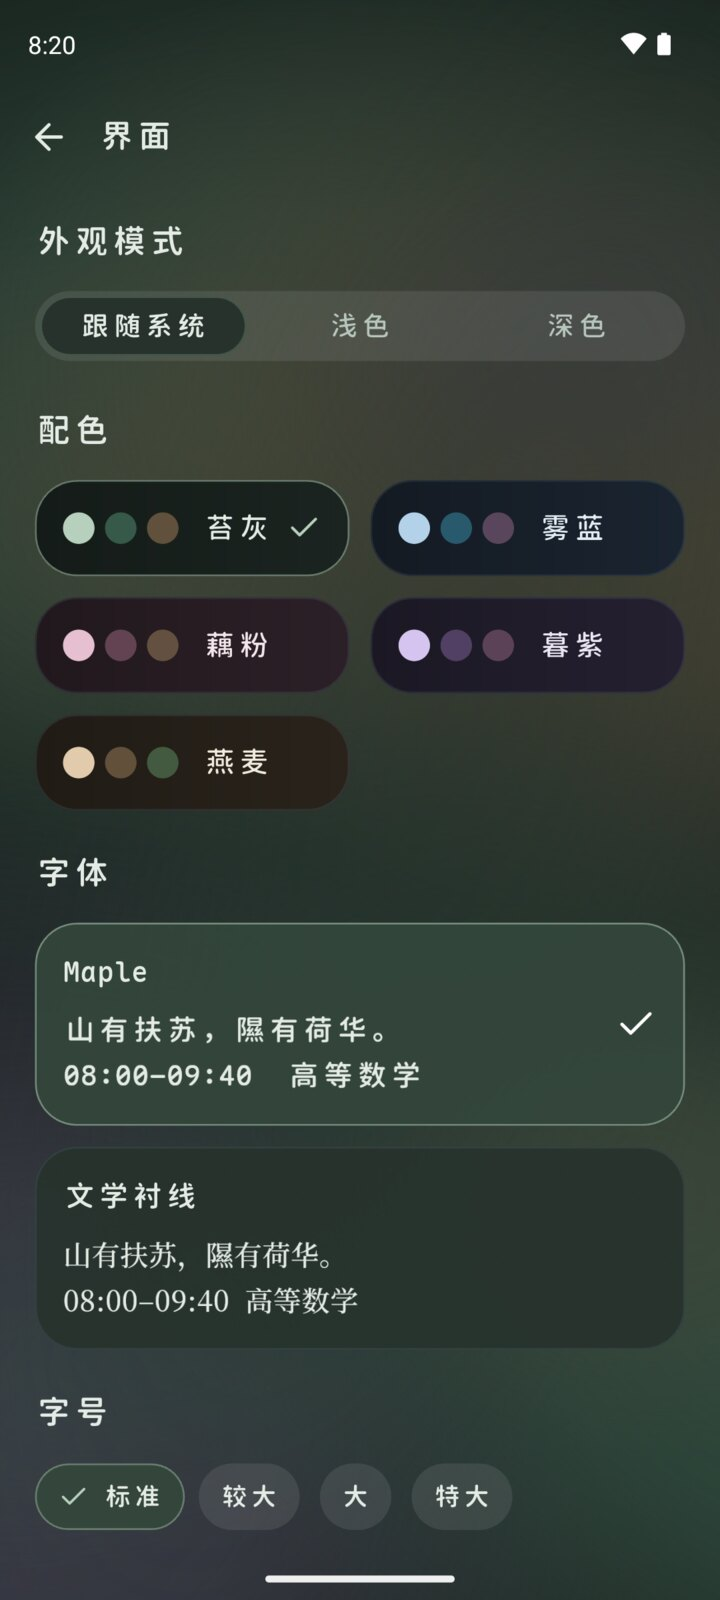
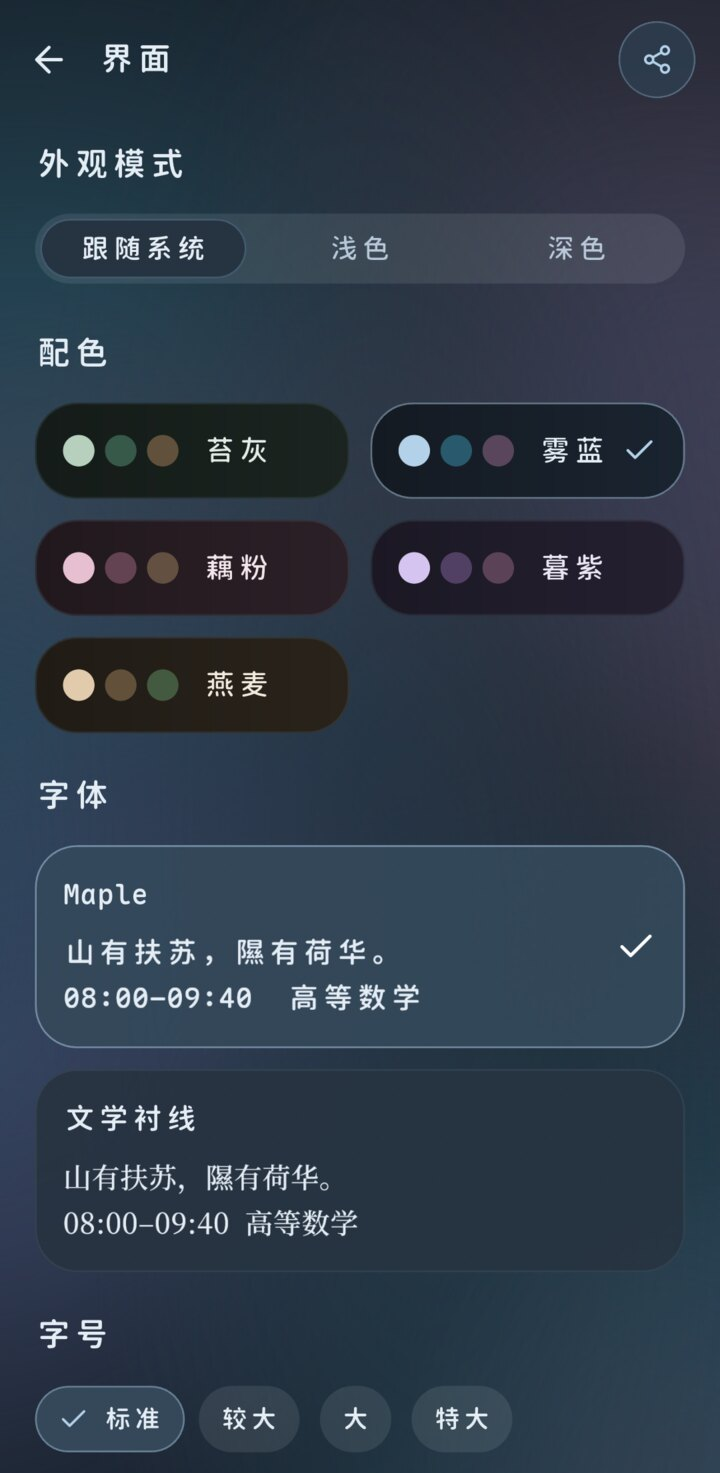
docs: README 重写为精简首页，百宝箱说明与常见问题移到 docs，截图重拍 (#138)
参照 NewPipe、Seal、Signal、LocalSend、uv、Ant Design 等项目与 GitHub、Google 的 README 写法：
开头一句话说清是什么、下载入口醒目，截图靠前，亮点每条一句，安装附签名证书指纹，
长内容挪到单独页面。补上百宝箱的快递；隐私要点与应用内政策对齐（中转服务器还用于开发者的话与节日抽奖）；
删掉 alpha.1、alpha.3 时代的升级说明。截图在 Pixel_7 模拟器上用合成数据重拍，
tool/readme_demo.dart 补上内存中转上的好友课表与假拼多多。

diff --git a/tool/readme_demo.dart b/tool/readme_demo.dart
@@ -1,7 +1,12 @@
 import 'dart:convert';
+import 'dart:io';
 
 import 'package:flutter/material.dart';
 import 'package:flutter/services.dart';
+import 'package:http/http.dart' as http;
+import 'package:http/testing.dart';
+import 'package:path/path.dart' as path;
+import 'package:path_provider/path_provider.dart';
 
 import 'package:superxd/app_session.dart';
 import 'package:superxd/domain/account.dart';
@@ -9,17 +14,33 @@ import 'package:superxd/domain/campus_clock.dart';
 import 'package:superxd/domain/campus_gateway.dart';
 import 'package:superxd/domain/campus_log.dart';
 import 'package:superxd/domain/schedule_store.dart';
+import 'package:superxd/domain/share_card.dart';
 import 'package:superxd/gateway/account_access.dart';
 import 'package:superxd/gateway/kingo_campus_gateway.dart';
 import 'package:superxd/local/app_database.dart';
 import 'package:superxd/local/display_settings.dart';
 import 'package:superxd/main.dart';
+import 'package:superxd/social/identity_vault.dart';
+import 'package:superxd/social/invite_code.dart';
+import 'package:superxd/social/social_service.dart';
+import 'package:superxd/social/social_store.dart';
 import 'package:superxd/theme/campus_icons.dart';
 import 'package:superxd/theme/glass_panel.dart';
 import 'package:superxd/theme/third_party_licenses.dart';
+import 'package:superxd/toolbox/express/express_client.dart';
+import 'package:superxd/toolbox/express/express_http.dart';
+import 'package:superxd/toolbox/express/express_models.dart';
+import 'package:superxd/toolbox/express/express_service.dart';
+import 'package:superxd/toolbox/express/express_vault.dart';
+import 'package:superxd/toolbox/toolbox_catalog.dart';
+import 'package:superxd/toolbox/toolbox_module.dart';
+import 'package:superxd/toolbox/toolbox_runtime.dart';
+
+import '../test/fake_relay.dart';
 
 // README 截图入口（手动，不进 CI）：内存 SQLite 里的合成课表与作息，假登录，不连教务、不读写本机账号库。
-// 课程、教师与教室均为虚构。运行：flutter run -t tool/readme_demo.dart
+// 私信是内存中转上的两台设备（好友「小红」发来一份课表），快递是内存会话加假拼多多，都不联网。
+// 课程、教师、教室、快递与取件码均为虚构。运行：flutter run --profile -t tool/readme_demo.dart
 Future<void> main() async {
   campusLog = debugPrint;
   WidgetsFlutterBinding.ensureInitialized();
@@ -37,14 +58,86 @@ Future<void> main() async {
   // 开学日取本周往前四周的周一，截图当天落在第 5 周。
   final today = DateTime.now();
   final monday = today.subtract(Duration(days: today.weekday - 1 + 28));
-  await database.setTermStart(term, '${monday.year}-${monday.month.toString().padLeft(2, '0')}-${monday.day.toString().padLeft(2, '0')}');
+  final start = '${monday.year}-${monday.month.toString().padLeft(2, '0')}-${monday.day.toString().padLeft(2, '0')}';
+  await database.setTermStart(term, start);
   await database.writeBells(xn: term.xn, xq: term.xq, fetchedAt: DateTime.now().toUtc().toIso8601String(), empty: false, message: '', periodsJson: _bellsJson);
   await gateway.saveScheduleRevision(term, _courses, '演示课表', expectedRevisionId: null);
+  final social = await _demoSocial(term, start);
   final session = AppSession(_DemoAccounts(gateway));
-  runApp(SuperXdApp(session: session, display: DisplaySettings.memory()));
+  runApp(SuperXdApp(session: session, display: DisplaySettings.memory(), social: social, toolbox: ToolboxRuntime(catalog: _demoCatalog)));
   await initializeCampusGlass();
   await session.restore();
 }
+
+// 私信：自己与好友「小红」两台设备经内存中转互加好友，小红发来同一学期的课表（看好友课表与共同空闲）。
+Future<SocialService> _demoSocial(TermRef term, String start) async {
+  final relay = FakeRelay();
+  final temporary = await getTemporaryDirectory();
+  Future<SocialService> device(String name) async {
+    final file = File(path.join(temporary.path, 'readme_demo_$name.db'));
+    if (file.existsSync()) file.deleteSync();
+    final service = SocialService(store: await SocialStore.open(file.path), vault: MemoryIdentityVault(), transport: relay.transport());
+    await service.initialize();
+    await service.enable(name);
+    return service;
+  }
+  final me = await device('林同学'), friend = await device('小红');
+  await friend.redeem(InviteCode.decode((await me.createInvite()).encode())!);
+  await me.refresh();
+  await friend.refresh();
+  await friend.send(friend.friends.first.deviceId, ScheduleShare(term: term, courses: _friendCourses, bells: _bells(), termStartDate: start));
+  await me.refresh();
+  return me;
+}
+
+// 百宝箱用正式注册表，只把快递换成内存会话加假拼多多（已登录、驿站有件），其余工具照常。
+List<ToolboxModule> _demoCatalog(ToolboxRuntime runtime) => [
+  for (final module in toolboxCatalog(runtime))
+    module.id == ExpressService.serviceId
+        ? ToolboxModule(id: module.id, name: module.name, icon: module.icon, builder: module.builder, clearedData: module.clearedData, shortcuts: module.shortcuts, openService: (_) async => _demoExpress())
+        : module,
+];
+
+Future<ExpressService> _demoExpress() async {
+  final vault = MemoryExpressVault();
+  await vault.save(const PddSession(accessToken: 'demo', cookie: 'PDDAccessToken=demo', userId: '1000000', nickname: '林同学', pickupMobile: '138****0000', pickupMore: true));
+  await vault.saveStationLinked(true);
+  return ExpressService(vault: vault, clientFactory: (session) => ExpressClient(session: session, http: ExpressHttp(client: _fakePdd())));
+}
+
+// 合成拼多多：一个驿站三件待取件，物流的 package_info 写寄到的手机尾号（两件 0000、一件 1111），近一周取走一件；身份码 10 分钟有效。
+http.Client _fakePdd() => MockClient((request) async {
+  final route = request.url.path;
+  final Object body;
+  if (route.endsWith('/shipping/track')) {
+    final number = request.url.queryParameters['tracking_number'] ?? '';
+    body = {'error_code': null, 'shipping': {'shipping_name': '合成快递', 'tracking_number': number, 'package_info': number == 'SX0000000003' ? '尾号1111 的快递' : '尾号0000 的快递', 'traces': [{'info': '快件已到达合成驿站一号，请凭取件码取件', 'time': '2026-10-26 09:12:00'}]}};
+  } else if (route.endsWith('/station/package')) {
+    body = {
+      'success': true,
+      'error_code': '0',
+      'result': {
+        'count': 3,
+        'combine_list': [
+          {
+            'company_name': '合成驿站一号',
+            'address': '示例路 1 号',
+            'combine_track_list': [
+              for (final (index, code) in ['3-2-1001', '3-2-1002', '5-1-2003'].indexed)
+                {'pick_code': '取件码 $code', 'shipping_name': '合成快递', 'tracking_number': 'SX000000000${index + 1}', 'shipping_id': 1},
+            ],
+          },
+        ],
+        'package_out_list': [
+          {'address': '示例路 1 号', 'operate_time': '10-24 18:05', 'shipping_name': '合成快递', 'tracking_number': 'SX0000000009', 'jump_url': '/track?tracking_number=SX0000000009&shipping_id=1&source_type=3'},
+        ],
+      },
+    };
+  } else {
+    body = {'success': true, 'error_code': '0', 'result': {'identification_code': 'dd20261026000000001234', 'expire_mills': 600000}};
+  }
+  return http.Response(jsonEncode(body), 200, headers: {'content-type': 'application/json;charset=UTF-8'});
+});
 
 const _bellsJson = '[{"period":1,"start":"08:00","end":"08:45"},{"period":2,"start":"08:55","end":"09:40"},{"period":3,"start":"10:00","end":"10:45"},{"period":4,"start":"10:55","end":"11:40"},{"period":5,"start":"14:00","end":"14:45"},{"period":6,"start":"14:55","end":"15:40"},{"period":7,"start":"16:00","end":"16:45"},{"period":8,"start":"16:55","end":"17:40"},{"period":9,"start":"19:00","end":"19:45"},{"period":10,"start":"19:55","end":"20:40"}]';
 
@@ -63,6 +156,19 @@ final _courses = [
   _course('D106', '思想道德与法治', '吴老师', 3, [(4, 5, 6, '综合楼 402')]),
   _course('D107', '体育', '郑老师', 1, [(1, 3, 4, '东区体育馆')]),
   _course('D108', '创新创业基础', '冯老师', 2, [(3, 9, 10, '综合楼 210')]),
+];
+
+// 好友小红的合成课表：和自己有一门同班的大学英语，其余错开，共同空闲里能看出两人都没课的时段。
+final _friendCourses = [
+  _course('E201', '数据结构', '何老师', 4, [(1, 1, 2, '信息楼 B201'), (3, 5, 6, '信息楼 B201')]),
+  _course('E202', '概率论', '许老师', 3, [(2, 3, 4, '明德楼 A305')]),
+  _course('D102', '大学英语', '周老师', 3, [(1, 5, 6, '外语楼 305'), (4, 1, 2, '外语楼 305')]),
+  _course('E203', '电路分析', '马老师', 4, [(4, 3, 4, '电气楼 110'), (5, 5, 6, '电气楼 110')]),
+];
+
+List<BellPeriod> _bells() => [
+  for (final period in (jsonDecode(_bellsJson) as List).cast<Map<String, Object?>>())
+    BellPeriod(period: period['period']! as int, dayPart: '', dayPartCode: '', start: period['start']! as String, end: period['end']! as String),
 ];
 
 // 上一学期的合成成绩（成绩页截图用）：课程沿用演示课表，分数虚构，绩点按分数线性折算。

diff --git a/docs/toolbox.md b/docs/toolbox.md
@@ -1,0 +1,51 @@
+# 百宝箱
+
+百宝箱在「服务 › 百宝箱」里，登录页也有入口，不需要登录教务，也不读取教务账号。每个工具第一次使用前都会单独说明要把什么交给谁，你同意后才启用；不想用了，在百宝箱首页左滑这个工具点「清除数据」，它在本机的数据全部删除。
+
+[返回 README](../README.md)
+
+- [快递](#快递)
+- [学习通签到](#学习通签到)
+- [短视频解析](#短视频解析)
+
+## 快递
+
+用你的拼多多账号查驿站里的待取件，出示取件身份码。
+
+- 登录：在应用里打开拼多多官方登录页，由你自己登录。拼多多同一个账号不能多台设备同时在线，在这里登录会让你其他设备上的拼多多下线，建议用小号登录，再把常用手机号绑到小号上。
+- 驿站快递：按驿站列出待取件，同一个驿站里按寄到的手机尾号分组，取件码写得最醒目；下面列近一周已取出的件。每件都能点「物流」看轨迹，整页下拉重新查询。
+- 扫驿站码：扫驿站贴的二维码，只查这一个驿站，身份码也带上这个驿站。
+- 取件身份码：条码与二维码两种，到期自动换新。点码牌全屏出示，期间屏幕亮度调到最高。长按应用图标选「取件身份码」，或在身份码卡上「添加到桌面」，一下就能打开。
+- 绑定手机号：查看、绑定（短信验证）与解绑取件手机号，每一步都由你确认。绑定后按拼多多的流程，把这个号已经到站的快递关联进账号。
+- 只能用微信查询的账号：拼多多对部分账号只开放微信查询。这时应用会说明，扫过驿站码的可以把驿站码存进相册，再到微信「扫一扫」里从相册选它。
+- 尾号未知：寄到哪个号是从拼多多的物流信息里读的。你在拼多多里自己添加的快递，拼多多不给手机尾号（官方 App 里也看不到），会归在「尾号未知」。
+- 安全验证：拼多多要求验证时，应用里会打开拼多多官方的验证页，由你本人完成。
+
+数据：登录会话、昵称、常用取件号（打码）和每件待取件的手机尾号只存在系统安全存储，不随云备份迁移；取件码、物流等查询结果只在页面上显示，不保存。退出登录或清除数据即删除。
+
+快递用的是拼多多的非公开接口，拼多多随时可能调整，不保证一直能用；只用于你本人已授权的账号。
+
+## 学习通签到
+
+用你自己的超星学习通账号登录后，在应用里完成课堂签到：签到码、手势、位置、拍照、二维码五种，另有签退、人脸识别、群聊签到、多人连签、往期补签与按课程查看。
+
+- 需要滑块验证时先在本机自动识别缺口，认不准再请你手动拖。
+- 位置签到在签到页的高德地图上点选，默认选中这门课上次签到用的位置，没有就用当前位置（打开位置签到时申请定位权限，仅使用期间）；也可以收藏常用位置或手输坐标。自己构建时不配置高德 key，只能用后两种。
+- 「可能正在签到」默认按本应用里的课表推断正在上的课，只在本机比对，不发给学习通；没有课表时改用学习通课表。
+- 多个账号可设主账号、加标签、拖动排序。
+- 代签要在两台设备之间转交凭据包：出示方生成代签码（二维码 10 分钟有效、被扫走即失效），凭据包用一次性密钥加密后经自建中转暂存、取走即删，服务端看不到内容。自己构建时要配置中转地址（见 README「从源码构建」）。
+
+数据：账号密码只存在系统安全存储；签到数据直接发给超星学习通，开发者不经手。
+
+签到只是把你在学习通上要做的事搬到本应用里做，不改变学习通的判定：迟到、超范围的签到依旧按学习通的规则来。代签会替代他人出勤，是否合规由你和学校的规定决定，后果由使用者自行承担。
+
+## 短视频解析
+
+粘贴作品的分享文案或链接，解析出视频或图集，在应用里预览、下载。
+
+- 解析依赖第三方服务（目前是 api.bugpk.com），第一次使用前单独征得你的同意，同意后才提交链接。
+- 下载的文件保存到 Download/SuperXD，归你所有，卸载应用也不会删除。下载在原地显示进度，可暂停、继续。
+- 解析历史只存在本机，最多 80 条、保留 30 天，可以关闭或清空。
+- 可以把作品分享给私信好友，只发原链接、标题与作者，对方在自己的手机上重新解析。
+
+请只处理本人或已获授权的作品。

diff --git a/docs/faq.md b/docs/faq.md
@@ -1,0 +1,33 @@
+# 常见问题
+
+[返回 README](../README.md)
+
+## 安装与升级
+
+- **为什么要 Android 11？** 本机数据库用到的写法需要较新的 SQLite，Android 10 及以下系统自带的版本太旧，装上也登录不了，所以从 1.0.0-alpha.4 起不再允许安装。
+- **下哪个安装包？** 大多数手机选 `arm64-v8a`，较老的 32 位手机选 `armeabi-v7a`。
+- **怎么升级？** 应用每天自己检查一次新版本，也可以在「我的 › 关于 › 检查更新」手动查。点「更新」在应用里下载，核对签名后交给系统安装，第一次要允许 SuperXD「安装未知应用」。也可以从 Releases 下载新版直接覆盖安装，签名相同，数据保留。
+- **还装着很早的版本：** 1.0.0-alpha.3 及更早的版本没有应用内更新，请从 Releases 手动下载覆盖安装一次。1.0.0-alpha.1 的签名不同，要先卸载再安装，旧版本机数据不保留。
+
+## 教务、课表与成绩
+
+- **能用在其他学校吗？** 暂时不能。教务地址和作息解析目前只适配山东现代学院，换校需要改源码（见 [lib/edu](../lib/edu)）。
+- **课表日期不对：** 检查开学日和作息；作息里没有的节次不会猜时间。
+- **同步失败了，本机课表会不会被清空？** 不会。只有教务明确返回「没课」「没成绩」才算空结果，其他失败一律保留本机数据；你自己改过课表时，同步前会先问要不要覆盖。
+- **提醒不准时：** 在课表 ⋯ 菜单的「课前提醒」里按提示开启通知和「闹钟和提醒」权限。
+
+## 私信
+
+- **私信收不到：** 目前只在应用打开时收取，没有后台推送。
+- **没有聊天框？** 私信只用来分享课表、界面配置和短视频卡片，不做文字聊天。
+
+## 百宝箱
+
+- **快递的件写「尾号未知」：** 在拼多多里自己添加的快递，拼多多不给手机尾号，官方 App 里也看不到，会一直归在「尾号未知」。其他件查不到尾号时，下次查询会再试。
+- **登录快递后，另一台手机上的拼多多下线了：** 拼多多同一个账号不能多台设备同时在线。建议用小号登录，再把常用手机号绑到小号上。
+- 各工具的详细说明见 [百宝箱](toolbox.md)。
+
+## 数据与反馈
+
+- **怎么删除我的数据？** 退出登录、关闭记住账号、删除解析历史，或在百宝箱首页对某个工具「清除数据」，都只删本机数据；关闭私信会同时删除服务器上的私信数据。也可以在系统设置里清除应用数据或卸载。已经存到 Download/SuperXD 的文件归你所有，不会随应用删除。
+- **反馈问题时附上日志：** 在「我的 › 关于」连点版本号 7 次打开开发者模式，复现一次问题，再到开发者选项里「导出日志」，日志包会存到 Download/SuperXD。日志不含密码、Cookie、验证码与身份码，手机号会被掩去，发出前也可以自己打开看看。

diff --git a/CLAUDE.md b/CLAUDE.md
@@ -13,7 +13,7 @@
 - 校园课表与成绩 Flutter 应用。只有 Android 宿主，对接单所学校的 Kingo 教务系统；另有免教务登录的百宝箱（短视频解析与下载、学习通签到）。
 - 功能性私信：扫码互加好友后分享课表、界面配置、短视频等卡片，没有文字聊天；经自建中转（server 目录，NestJS + MySQL + Redis）端到端加密转交。学习通代签的凭据包与应用内更新的版本清单、安装包也放在这个中转。
 - 公开 Alpha 测试，仓库公开、以 GPL-3.0 开源（curve_geometry.dart 例外，见 README 许可一节）。Flutter 与 Dart 版本以 CI 配置和 pubspec.yaml 为准，依赖锁定在 pubspec.lock。
-- 相关文档：设计语言 UITEMP/design_language.md；用户介绍、隐私摘要与从源码构建 README.md；发布、签名与贡献约定 CONTRIBUTING.md；变更记录 CHANGELOG.md。
+- 相关文档：设计语言 UITEMP/design_language.md；用户介绍、隐私摘要与从源码构建 README.md（只放首页要的，细节链到 docs）；百宝箱说明 docs/toolbox.md、常见问题 docs/faq.md，README 截图在 docs/images（tool/readme_demo.dart 的合成数据拍）；发布、签名与贡献约定 CONTRIBUTING.md；变更记录 CHANGELOG.md。功能、数据流向或隐私政策变了，README 的亮点与隐私要点、docs 两页一起看要不要改。
 
 # 常用命令
 

diff --git a/CHANGELOG.md b/CHANGELOG.md
@@ -2,6 +2,9 @@
 
 ## Unreleased
 
+### 变更
+- README 重写：参照大厂与优秀开源项目的写法精简成首页（截图、亮点、下载与签名校验、隐私要点、从源码构建、参与与许可），补上百宝箱的快递，隐私要点与应用内政策对齐（中转服务器还用于开发者的话与节日抽奖）；百宝箱说明与常见问题移到 docs/toolbox.md、docs/faq.md。截图按现在的界面重拍（默认雾蓝配色，新增好友共同空闲与快递），截图入口 tool/readme_demo.dart 补上合成的好友课表与假拼多多。
+
 ### 修复
 - 快递：补查待取件寄到的手机尾号改成同拼多多官方物流页，驿站里的件按驿站包裹记录查驿站物流，点「物流」看到的也是同一份；以前查成功但没给尾号的件被记成查过、再也不查，现在没查到尾号的每次查驿站都再试一次。在拼多多里自己添加的快递，拼多多不给手机尾号（官方 App 里也看不到），仍归在「尾号未知」。
 
